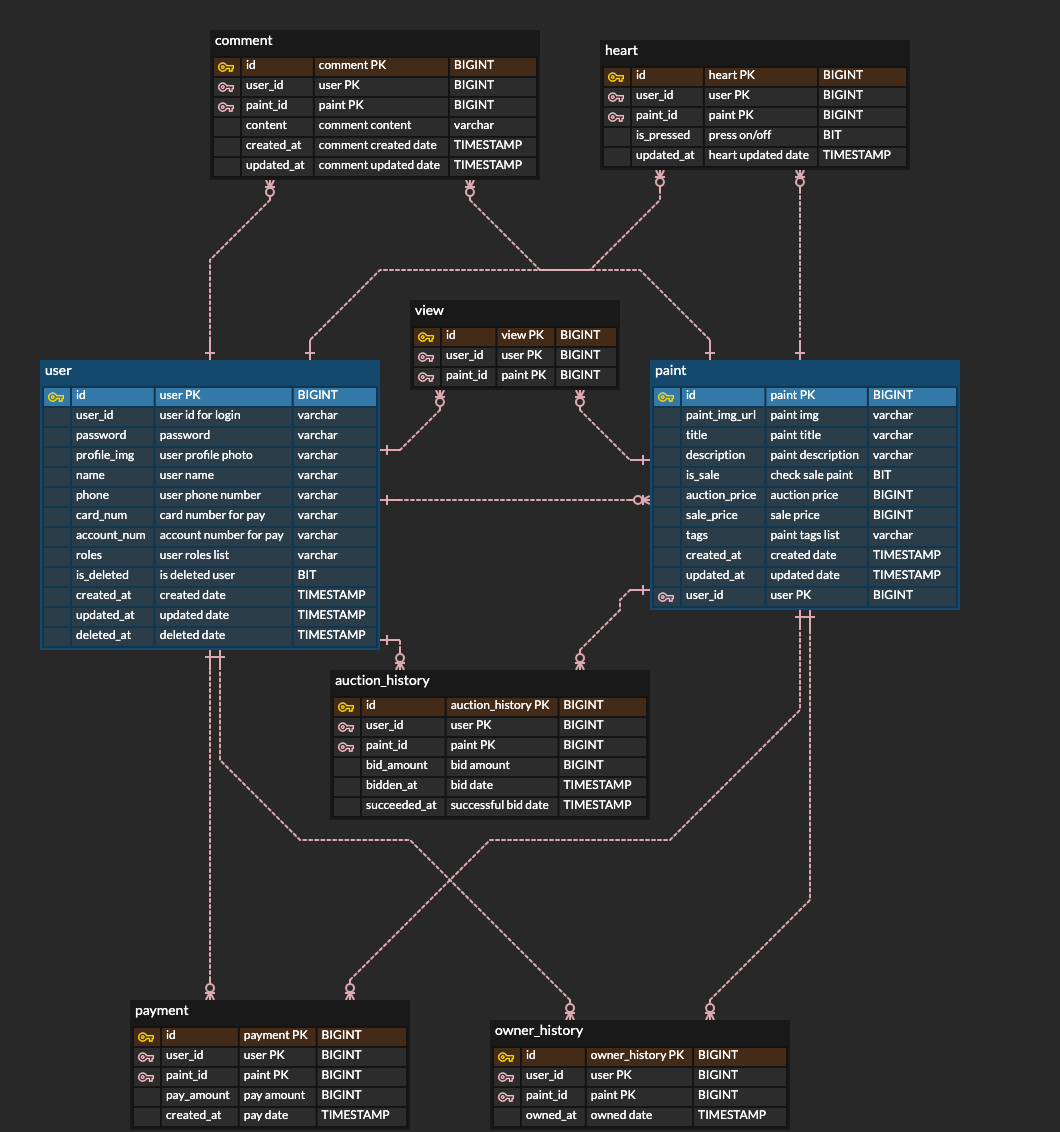
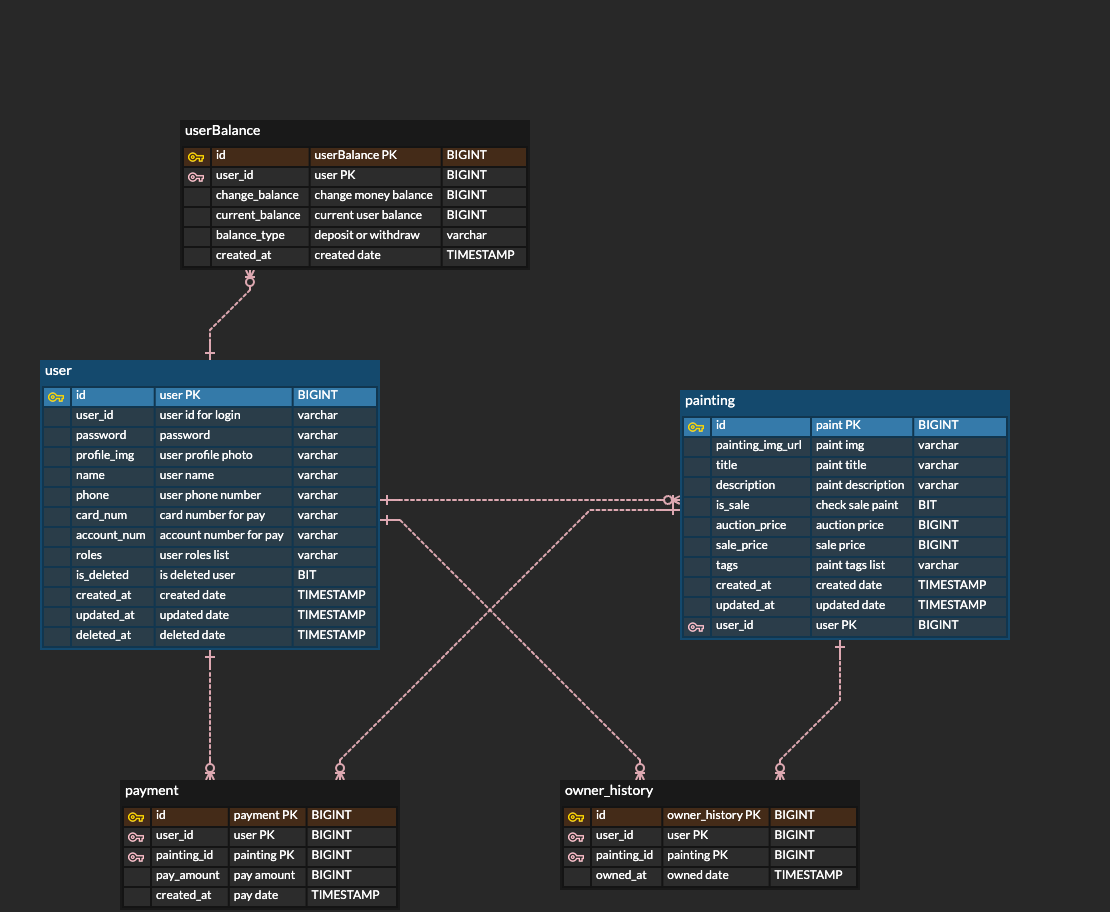
doc: "update README.md"

diff --git a/README.md b/README.md
@@ -9,13 +9,10 @@
    - `아이디`, `비밀번호`, `프로필 사진`, `닉네임`, `전화번호` 값을 받아 회원을 등록한다.
    - `아이디`, `닉네임`은 중복될 수 없다.
    - 모든 사용자는 기본적으로 `VIEWER` 권한을 갖는다.
-   - 이후에 활동을 통해 `BUYER`, `DREAMER`, `NEWBIE`, `AMATEUR`, `ARTIST` 권한을 추가한다.
+   - 이후에 활동을 통해 `BUYER`, `DREAMER`, `ARTIST` 권한을 추가한다.
      - BUYER(구매자): **카드 정보를 등록**하면 권한 획득
      - DREAMER(화가꿈나무): **그림을 하나 이상 등록**하면 권한 획득
-     - NEWBIE(신입 화가): **그림이 하나 이상 판매완료**되면 권한 획득
-     - AMATEUR(아마추어): **그림이 20개 이상 판매완료**되면 권한 획득
-     - ARTIST(예술가): **그림이 50개 이상 판매완료**되면 권한 획득
-   - `카드정보`, `계좌번호`는 처음 회원가입할때는 null 로 설정한다.
+     - ARTIST(신입 화가): **그림이 하나 이상 판매완료**되면 권한 획득
 2. 로그인 기능
     - `아이디`, `비밀번호` 일치여부 확인 후 로그인 성공/실패한다.
     - 로그인 성공 후 `access token`, `refresh token` 발행한다.
@@ -38,17 +35,17 @@
 
 ### ✨그림관리
 1. 그림 등록 기능
-   - `그림(이미지)`, `제목`, `설명`, `판매여부`, `경매/매매 가격`, `태그 리스트` 를 작성하여 제출한다.
+   - `그림(이미지)`, `제목`, `설명`, `판매여부`, `매매 가격`, `태그 리스트` 를 작성하여 제출한다.
      - 그림 이미지 파일은 AWS s3 에 저장하고 관리한다.
      - 그림 설명은 300이내로 작성한다.
      - 판매여부에서 그림을 판매할지 전시만 할지 결정한다.
      - 판매할 그림으로 선택하면 경매가와 매매가를 둘 다 정해서 등록한다.
        - 매매가를 경매가보다 높은 가격으로 등록한다.
      - 태그 리스트는 사용자가 직접 입력하며, 최대 10개까지만 등록할 수 있다.
+     - 그림을 등록하면 ES 에도 저장된다.
 2. 그림 정보 수정 기능
    - 그림 제목, 설명은 원작자의 의도가 포함되어 있기 때문에 수정 불가능하다.
-   - `판매여부` false 에서 true 로 변경하는 것과 `매매가`(즉시구매가), `태그`만 수정할 수 있다.
-   - 경매가 시작된 그림은 정보를 수정할 수 없다.
+   - `판매여부` false 에서 true 로 변경하는 것과 `매매가`, `태그`만 수정할 수 있다.
 3. 그림 검색 기능
    - Elastic Search 를 이용해 검색기능을 구현한다.
    - 일반적인 검색은 '제목'으로부터 검색된다.
@@ -56,45 +53,25 @@
 4. 그림 조회 기능
    - 그림 이미지, 제목, 설명, 히스토리 정보를 조회한다.
      - 히스토리는 얼마에 누구한테 판매되었는지 에 대한 히스토리를 확인할 수 있다.
-   - 조회수, 하트수를 조회할 수 있다.
-     - 조회수는 사용자당 하나만 올릴 수 있다.
-     - 하트수는 사용자가 직접 좋아요를 누르는 방식이고 다시 누르면 좋아요가 취소된다.
      - 판매되고 있는 그림이면 경매가, 매매가(즉시구매가)를 확인할 수 있다.
-   - 댓글을 조회할 수 있다.
-     - 댓글은 paging 처리한다.
-     - 대댓글을 작성할 수 없다.
 5. 모든 그림 조회 기능
-   - 모든 그림 리스트는 하트수(좋아요 수)에 따른 인기순으로 정렬된다.
-     - 하트수에 따른 오름차순 / 내림차순 을 선택할 수 있다.
+   - 모든 그림 리스트는 최신그림순 으로 정렬된다.
      - 최신그림순 / 오래된그림순 을 선택할 수 있다.
      - 판매되고 있는 그림만 볼 수 있게 설정할 수 있다.
      - 가격 범위를 정할 수 있다.
    - 등록된 그림 수가 많을 수 있으므로 paging 처리한다.
 
 ### ✨그림 매매
-1. 사용자는 경매입찰, 즉시구매로 그림을 구매할 수 있다.
-2. 그림을 구매하면 다시 그 그림의 소유자가 되어 그림을 재판매할 수 있다.
-3. 그림이 판매되면 `판매여부`가 무조건 false 로 변경된다.
-4. 그림이 판매되면 유저 권한이 변경될 수 있다.
-
-### ✨경매시스템
-1. 마지막 입찰 후 `24시간`동안 새로운 입찰이 없으면 제일 마지막에 입찰한 사용자에게 낙찰된다.
-2. 경매는 한사람이 여러번 입찰할 수 있지만 바로전에 입찰한 사용자라면 바로 입찰할 수 없다.
-   - 동시성 처리로 입찰가를 실시간으로 갱신한다.
-3. 특정가격 이상이 되면 입찰가가 증가한다.
-   - 현재 가격의 `10%`로 결정된다.
-4. 사용자는 본인이 현재 참여하고 있는 경매의 그림 목록을 조회할 수 있다.
-5. 낙찰자가 `48시간` 이내로 결제를 진행하지 않으면 해당 그림의 경매가 처음 등록한 시작가로 재등록된다.
+1. 그림을 구매하면 다시 그 그림의 소유자가 되어 그림을 재판매할 수 있다.
+2. 그림이 판매되면 `판매여부`가 무조건 false 로 변경된다.
 
 ### ✨결제시스템
-1. 결제에 사용될 카드정보를 등록한다.
-   - 카드번호 16자리와 결제 비밀번호를 입력한다.
-     - 카드번호와 결제 비밀번호는 암호화되어 저장된다.
-   - 카드를 등록하면 `BUYER` 권한을 획득한다.
-   - 카드정보를 수정할 수 있다.
-2. 판매된 금액을 받을 계좌번호를 등록한다.
-   - 계좌정보를 수정할 수 있다.
-3. 결제가 진행되면 결제 히스토리 테이블에 `판매자`, `구매자`, `금액`이 저장된다.
+1. 유저 잔액 테이블로 관리된다.
+   - 유저는 입출금을 할 수 있다.
+   - 현재 잔액이 1000원이 넘게되면 `BUYER` 권한을 획득할 수 있다.
+   - `BUYER` 권한을 갖고있는 유저만 그림을 살 수 있다.
+2. 결제가 진행되면 결제 히스토리 테이블에 `판매자`, `구매자`, `금액`이 저장된다.
+3. 결제가 완료되면 그림 소유 히스토리 테이블에 그림의 소유권이 저장된다.
 
 # ERD
 ![ERD](doc/img/erd.png)
